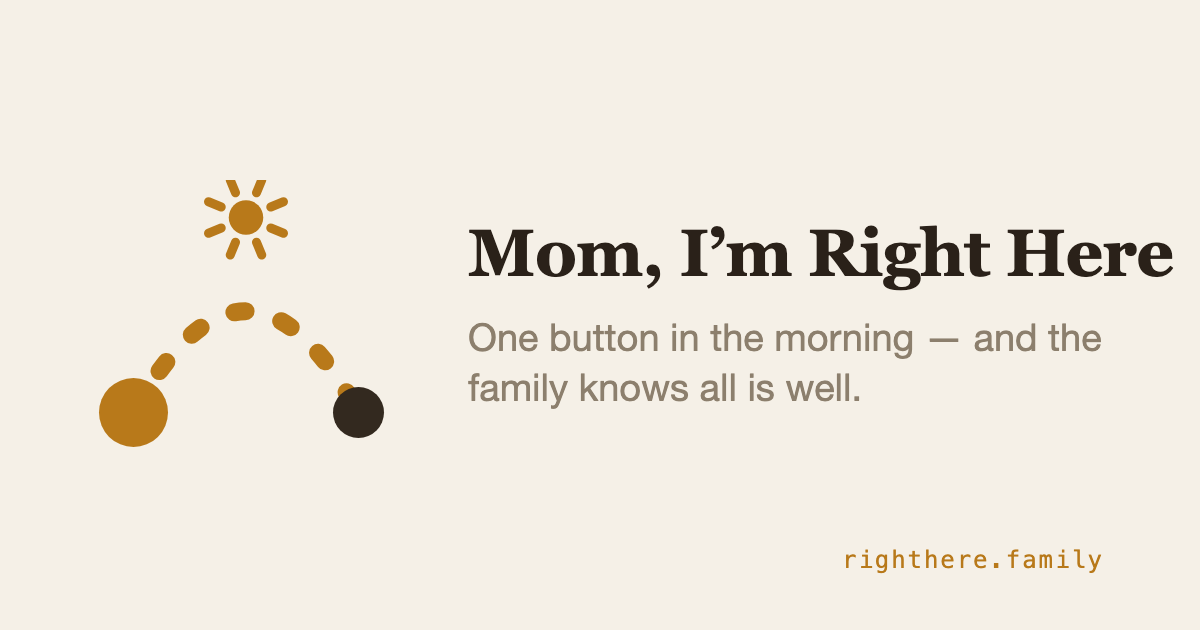
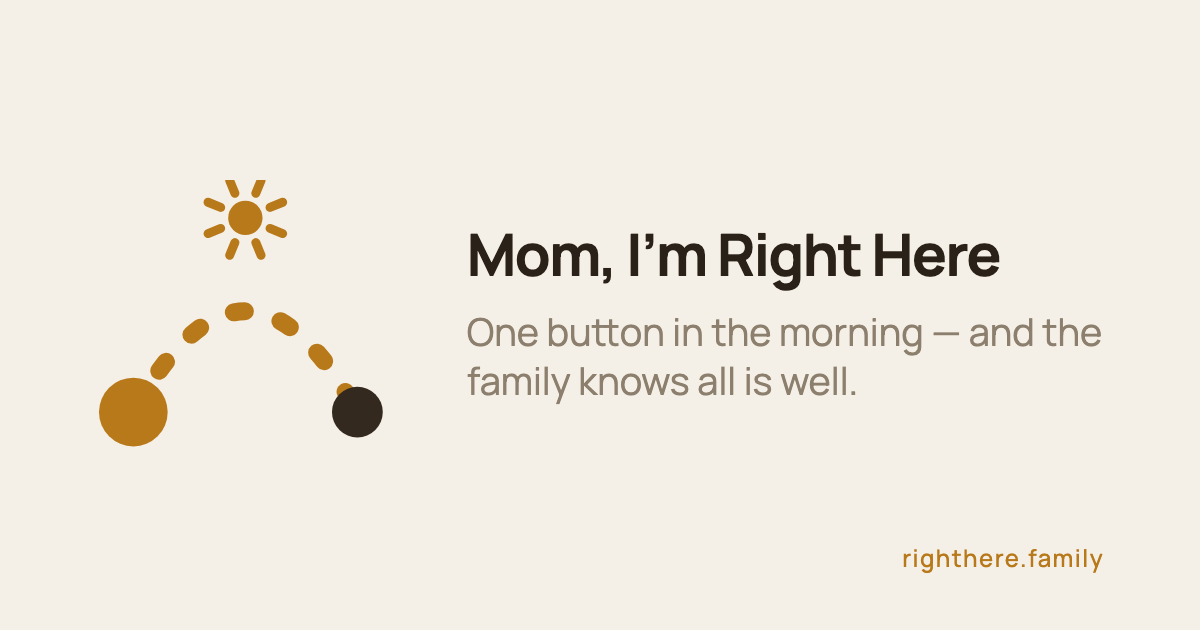
Use a single typeface across the landing and public pages

diff --git a/bot/src/landing-en.html b/bot/src/landing-en.html
@@ -163,9 +163,7 @@
   :root{
     --bg:#F5F0E7; --bg2:#F1EAE0; --card:#FFFDF9; --ink:#2A2119; --sub:#8C7F6D;
     --honey:#B8791A; --honey-deep:#9A6410; --graphite:#33291F; --choco:#2E241B; --cream:#FFF9EF; --cherry:#8E3A4C;
-    --serif:ui-serif, 'New York', Georgia, 'Times New Roman', serif;
     --sans:'Manrope', -apple-system, BlinkMacSystemFont, 'Segoe UI', Roboto, sans-serif;
-    --mono:ui-monospace, 'SF Mono', Menlo, monospace;
     --line:rgba(42,33,25,.1);
   }
 
@@ -181,7 +179,7 @@
   .site-nav{position:sticky; top:0; z-index:50; background:rgba(245,240,231,.92); backdrop-filter:blur(10px); border-bottom:1px solid var(--line);}
   .site-nav .wrap{display:flex; align-items:center; gap:12px; height:62px;}
   .brand{display:flex; align-items:center; gap:11px; text-decoration:none; color:var(--ink);}
-  .brand b{font-family:var(--serif); font-weight:700; font-size:21px; letter-spacing:.01em;}
+  .brand b{font-weight:700; font-size:19px; letter-spacing:-.01em;}
   .nav__links{display:flex; gap:22px; margin-left:auto; align-items:center;}
   .nav__links a{font-size:14px; color:var(--sub); text-decoration:none; font-weight:500;}
   .nav__links a:hover{color:var(--ink);}
@@ -190,11 +188,11 @@
   .nav__links a.btn{color:#fff;}
   .nav__links a.btn:hover{color:#fff;}
     .site-nav .btn{padding:9px 18px; font-size:13.5px;}
-  .brand__badge{font-family:var(--mono); font-size:11px; letter-spacing:.05em; color:var(--sub); border:1px solid var(--line); border-radius:99px; padding:4px 11px;}
+  .brand__badge{font-size:11px; font-weight:500; letter-spacing:.04em; color:var(--sub); border:1px solid var(--line); border-radius:99px; padding:4px 11px;}
 
   .hero{padding:56px 0 40px; text-align:center; overflow:hidden;}
-  h1{font-family:var(--serif); font-size:clamp(42px,5.6vw,72px); line-height:1.04; margin:6px auto 18px; font-weight:600; letter-spacing:0; max-width:15em; text-wrap:balance;}
-  h1 em, h2 em{font-style:italic; font-weight:600; color:var(--honey-deep);}
+  h1{font-size:clamp(38px,5vw,64px); line-height:1.06; margin:6px auto 18px; font-weight:700; letter-spacing:-.02em; max-width:14em; text-wrap:balance;}
+  h1 em, h2 em{font-style:normal; color:var(--honey-deep);}
   .hero__lede{color:var(--sub); font-size:17.5px; max-width:31em; margin:0 auto 28px; font-weight:500;}
   .hero__note{color:var(--sub); font-size:13.5px; margin-top:13px;}
 
@@ -307,23 +305,23 @@
   .btn--demo{background:#FFFFFF; color:var(--ink); border:2px solid var(--honey); box-shadow:0 6px 22px rgba(184,121,26,.16); animation:breathe 2.6s ease-in-out infinite;}
   .btn--demo:hover{background:var(--cream); color:var(--ink);}
   @keyframes breathe{0%,100%{box-shadow:0 6px 22px rgba(184,121,26,.16)} 50%{box-shadow:0 6px 30px rgba(184,121,26,.34)}}
-  .demo-hint{font-family:var(--mono); font-size:12px; color:var(--sub); margin:0;}
+  .demo-hint{font-size:12px; font-weight:500; color:var(--sub); margin:0;}
   .demo-after{font-size:14px; font-weight:600; color:var(--honey-deep); text-decoration:none; opacity:0; transform:translateY(4px); transition:opacity .5s ease, transform .5s ease; pointer-events:none;}
   .demo-after.shown{opacity:1; transform:none; pointer-events:auto;}
 
-  .scene__caption{font-family:var(--mono); font-size:12px; color:var(--sub); margin-top:16px;}
+  .scene__caption{font-size:12px; font-weight:500; color:var(--sub); margin-top:16px;}
 
   .section{padding:76px 0;}
   .section--alt{background:var(--bg2);}
-  .eyebrow{font-family:var(--mono); font-size:12px; letter-spacing:.08em; text-transform:uppercase; color:var(--honey-deep); margin-bottom:12px;}
-  h2{font-family:var(--serif); font-size:clamp(32px,3.8vw,46px); line-height:1.1; margin:0 0 14px; font-weight:600; letter-spacing:0; text-wrap:balance;}
+  .eyebrow{font-size:12px; font-weight:700; letter-spacing:.12em; text-transform:uppercase; color:var(--honey-deep); margin-bottom:12px;}
+  h2{font-size:clamp(28px,3.4vw,40px); line-height:1.12; margin:0 0 14px; font-weight:700; letter-spacing:-.015em; text-wrap:balance;}
   .section__lede{color:var(--sub); max-width:37em; margin:0 0 36px; font-size:16.5px; font-weight:500;}
 
   .timeline{border-left:2px solid var(--line); margin-left:8px; padding-left:30px; display:grid; gap:28px; max-width:620px;}
   .timeline .timeline__row{position:relative;}
   .timeline .timeline__row::before{content:""; position:absolute; left:-39px; top:4px; width:14px; height:14px; border-radius:50%; background:var(--honey); border:3px solid var(--bg);}
   .timeline__row--muted::before{background:var(--sub);}
-  .timeline time{font-family:var(--mono); font-size:13px; color:var(--honey-deep); font-weight:600;}
+  .timeline time{font-size:13px; color:var(--honey-deep); font-weight:700; font-variant-numeric:tabular-nums;}
   .timeline__row--muted time{color:var(--sub);}
   .timeline p{margin:4px 0 0; max-width:33em;}
   .timeline p small{display:block; color:var(--sub); margin-top:3px; font-size:13.5px;}
@@ -344,7 +342,7 @@
   .features__item svg{width:24px; height:24px; stroke:var(--honey-deep); fill:none; stroke-width:1.7; stroke-linecap:round; stroke-linejoin:round; margin-top:3px;}
   .features__item b{display:block; font-size:17px; margin-bottom:3px; font-weight:700;}
   .features__item p{margin:0; color:var(--sub); font-size:14.5px; max-width:44em;}
-  .features__item p code{white-space:nowrap; white-space:nowrap; font-family:var(--mono); font-size:12.5px; background:var(--bg2); border-radius:5px; padding:1px 6px; color:var(--ink);}
+  .features__item p code{white-space:nowrap; font-family:inherit; font-size:13px; font-weight:500; background:var(--bg2); border-radius:5px; padding:1px 6px; color:var(--ink);}
 
   .promise{background:var(--choco); color:#EFE6D9;}
   .promise h2{color:#FFF9EF;}
@@ -352,11 +350,11 @@
   .promise__list{display:grid; grid-template-columns:repeat(auto-fit,minmax(300px,1fr)); gap:6px 46px; max-width:880px; margin-top:28px;}
   .promise__list p{margin:0; padding:14px 0; border-bottom:1px solid rgba(239,230,217,.14); font-size:15.5px; color:#CBBFAE;}
   .promise__list p b{color:#FFF9EF; font-weight:700;}
-  .promise__gate{margin-top:34px; font-family:var(--serif); font-size:24px; color:#FFF9EF; max-width:24em; line-height:1.4; font-weight:600;}
+  .promise__gate{margin-top:34px; font-size:22px; color:#FFF9EF; max-width:24em; line-height:1.45; font-weight:500;}
 
   .geo{text-align:center;}
   .geo h2{max-width:20em; margin-left:auto; margin-right:auto;}
-  .geo .geo__cities{font-family:var(--mono); font-size:14px; color:var(--sub); margin:20px 0 8px; letter-spacing:.02em;}
+  .geo .geo__cities{font-size:14px; font-weight:500; color:var(--sub); margin:20px 0 8px; letter-spacing:.02em;}
   .geo .geo__cities b{color:var(--honey-deep); font-weight:600;}
 
   .pricing{display:grid; grid-template-columns:repeat(auto-fit,minmax(220px,1fr)); gap:22px; align-items:stretch; max-width:960px;}
@@ -364,14 +362,14 @@
   .pricing__plan--mom{background:var(--honey); color:#FFF9EF; border-radius:22px; padding:26px 28px 30px; box-shadow:0 18px 40px rgba(184,121,26,.28);}
   .pricing__plan--mom b, .pricing__plan--mom .pricing__label{color:#FFF9EF;}
   .pricing__plan.pricing__plan--mom span{color:rgba(255,249,239,.82);}
-  .pricing__plan b{font-family:var(--serif); font-size:30px; line-height:1.15; display:block; font-weight:700; margin-bottom:10px;}
+  .pricing__plan b{font-size:28px; line-height:1.15; letter-spacing:-.015em; display:block; font-weight:700; margin-bottom:10px;}
   .pricing__plan span{color:var(--sub); font-size:14px;}
   .beta-modal{border:0; padding:0; background:transparent; width:min(92vw, 520px); color:var(--ink);}
   .beta-modal::backdrop{background:rgba(42,33,25,.5); backdrop-filter:blur(3px);}
   .beta-modal__card{position:relative; background:var(--card); border-radius:26px; padding:32px 30px 28px; box-shadow:0 30px 80px rgba(64,52,32,.28);}
   .beta-modal__close{position:absolute; top:16px; right:16px; width:34px; height:34px; border:0; border-radius:50%; background:var(--bg2); color:var(--sub); font-size:19px; line-height:1; cursor:pointer;}
   .beta-modal__close:hover{color:var(--ink);}
-  .beta-modal__title{font-family:var(--serif); font-size:30px; font-weight:600; margin:0 0 8px; padding-right:44px;}
+  .beta-modal__title{font-size:26px; font-weight:700; letter-spacing:-.015em; margin:0 0 8px; padding-right:44px;}
   .beta-modal__lead{margin:0 0 22px; color:var(--sub); font-size:15px; line-height:1.5;}
   .beta-modal__tg{display:block; text-align:center; width:100%; box-sizing:border-box;}
   .beta-modal__or{display:flex; align-items:center; gap:12px; margin:20px 0 16px; color:var(--sub); font-size:13px;}
@@ -400,20 +398,20 @@
   .tg-link:hover{color:var(--ink);}
   .tg-link__icon{flex:0 0 auto; color:var(--honey);}
   .pricing__note{margin-top:20px; font-size:16px; color:var(--honey-deep); font-weight:700;}
-  .pricing__label{display:block; font-family:var(--mono); font-size:11px; letter-spacing:.08em; text-transform:uppercase; color:var(--honey-deep); margin-bottom:7px;}
+  .pricing__label{display:block; font-size:11px; font-weight:700; letter-spacing:.12em; text-transform:uppercase; color:var(--honey-deep); margin-bottom:7px;}
 
   .faq{max-width:720px;}
 
   .faq details{border-bottom:1px solid var(--line);}
   .faq summary{cursor:pointer; padding:18px 0; font-weight:700; font-size:16.5px; list-style:none; display:flex; justify-content:space-between; gap:20px;}
-  .faq summary::after{content:"+"; color:var(--honey-deep); font-size:21px; font-weight:400; font-family:var(--serif);}
+  .faq summary::after{content:"+"; color:var(--honey-deep); font-size:21px; font-weight:400;}
   .faq details[open] summary::after{content:"–";}
   .faq summary::-webkit-details-marker{display:none;}
   .faq .a{padding:0 0 18px; color:var(--sub); max-width:42em; font-size:15px;}
 
   .closing{text-align:center; padding:100px 0 80px;}
-  .closing .img{font-family:var(--serif); font-size:clamp(26px,3.4vw,36px); line-height:1.3; max-width:22em; margin:0 auto 16px; text-wrap:balance; font-weight:600;}
-  .closing .img em{font-style:italic; color:var(--sub); font-weight:600;}
+  .closing .img{font-size:clamp(24px,3vw,32px); line-height:1.3; letter-spacing:-.015em; max-width:22em; margin:0 auto 16px; text-wrap:balance; font-weight:600;}
+  .closing .img em{font-style:normal; color:var(--sub);}
   .closing .closing__note{color:var(--sub); margin:0 auto 36px; max-width:30em; font-weight:500;}
 
   .cat-strip{position:relative; height:64px; border-top:1px solid var(--line); max-width:1080px; margin:0 auto; overflow:hidden;}

diff --git a/bot/src/landing.html b/bot/src/landing.html
@@ -163,9 +163,7 @@
   :root{
     --bg:#F5F0E7; --bg2:#F1EAE0; --card:#FFFDF9; --ink:#2A2119; --sub:#8C7F6D;
     --honey:#B8791A; --honey-deep:#9A6410; --graphite:#33291F; --choco:#2E241B; --cream:#FFF9EF; --cherry:#8E3A4C;
-    --serif:ui-serif, 'New York', Georgia, 'Times New Roman', serif;
     --sans:'Manrope', -apple-system, BlinkMacSystemFont, 'Segoe UI', Roboto, sans-serif;
-    --mono:ui-monospace, 'SF Mono', Menlo, monospace;
     --line:rgba(42,33,25,.1);
   }
 
@@ -181,7 +179,7 @@
   .site-nav{position:sticky; top:0; z-index:50; background:rgba(245,240,231,.92); backdrop-filter:blur(10px); border-bottom:1px solid var(--line);}
   .site-nav .wrap{display:flex; align-items:center; gap:12px; height:62px;}
   .brand{display:flex; align-items:center; gap:11px; text-decoration:none; color:var(--ink);}
-  .brand b{font-family:var(--serif); font-weight:700; font-size:21px; letter-spacing:.01em;}
+  .brand b{font-weight:700; font-size:19px; letter-spacing:-.01em;}
   .nav__links{display:flex; gap:22px; margin-left:auto; align-items:center;}
   .nav__links a{font-size:14px; color:var(--sub); text-decoration:none; font-weight:500;}
   .nav__links a:hover{color:var(--ink);}
@@ -190,11 +188,11 @@
   .nav__links a.btn{color:#fff;}
   .nav__links a.btn:hover{color:#fff;}
     .site-nav .btn{padding:9px 18px; font-size:13.5px;}
-  .brand__badge{font-family:var(--mono); font-size:11px; letter-spacing:.05em; color:var(--sub); border:1px solid var(--line); border-radius:99px; padding:4px 11px;}
+  .brand__badge{font-size:11px; font-weight:500; letter-spacing:.04em; color:var(--sub); border:1px solid var(--line); border-radius:99px; padding:4px 11px;}
 
   .hero{padding:56px 0 40px; text-align:center; overflow:hidden;}
-  h1{font-family:var(--serif); font-size:clamp(42px,5.6vw,72px); line-height:1.04; margin:6px auto 18px; font-weight:600; letter-spacing:0; max-width:15em; text-wrap:balance;}
-  h1 em, h2 em{font-style:italic; font-weight:600; color:var(--honey-deep);}
+  h1{font-size:clamp(38px,5vw,64px); line-height:1.06; margin:6px auto 18px; font-weight:700; letter-spacing:-.02em; max-width:14em; text-wrap:balance;}
+  h1 em, h2 em{font-style:normal; color:var(--honey-deep);}
   .hero__lede{color:var(--sub); font-size:17.5px; max-width:31em; margin:0 auto 28px; font-weight:500;}
   .hero__note{color:var(--sub); font-size:13.5px; margin-top:13px;}
 
@@ -307,23 +305,23 @@
   .btn--demo{background:#FFFFFF; color:var(--ink); border:2px solid var(--honey); box-shadow:0 6px 22px rgba(184,121,26,.16); animation:breathe 2.6s ease-in-out infinite;}
   .btn--demo:hover{background:var(--cream); color:var(--ink);}
   @keyframes breathe{0%,100%{box-shadow:0 6px 22px rgba(184,121,26,.16)} 50%{box-shadow:0 6px 30px rgba(184,121,26,.34)}}
-  .demo-hint{font-family:var(--mono); font-size:12px; color:var(--sub); margin:0;}
+  .demo-hint{font-size:12px; font-weight:500; color:var(--sub); margin:0;}
   .demo-after{font-size:14px; font-weight:600; color:var(--honey-deep); text-decoration:none; opacity:0; transform:translateY(4px); transition:opacity .5s ease, transform .5s ease; pointer-events:none;}
   .demo-after.shown{opacity:1; transform:none; pointer-events:auto;}
 
-  .scene__caption{font-family:var(--mono); font-size:12px; color:var(--sub); margin-top:16px;}
+  .scene__caption{font-size:12px; font-weight:500; color:var(--sub); margin-top:16px;}
 
   .section{padding:76px 0;}
   .section--alt{background:var(--bg2);}
-  .eyebrow{font-family:var(--mono); font-size:12px; letter-spacing:.08em; text-transform:uppercase; color:var(--honey-deep); margin-bottom:12px;}
-  h2{font-family:var(--serif); font-size:clamp(32px,3.8vw,46px); line-height:1.1; margin:0 0 14px; font-weight:600; letter-spacing:0; text-wrap:balance;}
+  .eyebrow{font-size:12px; font-weight:700; letter-spacing:.12em; text-transform:uppercase; color:var(--honey-deep); margin-bottom:12px;}
+  h2{font-size:clamp(28px,3.4vw,40px); line-height:1.12; margin:0 0 14px; font-weight:700; letter-spacing:-.015em; text-wrap:balance;}
   .section__lede{color:var(--sub); max-width:37em; margin:0 0 36px; font-size:16.5px; font-weight:500;}
 
   .timeline{border-left:2px solid var(--line); margin-left:8px; padding-left:30px; display:grid; gap:28px; max-width:620px;}
   .timeline .timeline__row{position:relative;}
   .timeline .timeline__row::before{content:""; position:absolute; left:-39px; top:4px; width:14px; height:14px; border-radius:50%; background:var(--honey); border:3px solid var(--bg);}
   .timeline__row--muted::before{background:var(--sub);}
-  .timeline time{font-family:var(--mono); font-size:13px; color:var(--honey-deep); font-weight:600;}
+  .timeline time{font-size:13px; color:var(--honey-deep); font-weight:700; font-variant-numeric:tabular-nums;}
   .timeline__row--muted time{color:var(--sub);}
   .timeline p{margin:4px 0 0; max-width:33em;}
   .timeline p small{display:block; color:var(--sub); margin-top:3px; font-size:13.5px;}
@@ -344,7 +342,7 @@
   .features__item svg{width:24px; height:24px; stroke:var(--honey-deep); fill:none; stroke-width:1.7; stroke-linecap:round; stroke-linejoin:round; margin-top:3px;}
   .features__item b{display:block; font-size:17px; margin-bottom:3px; font-weight:700;}
   .features__item p{margin:0; color:var(--sub); font-size:14.5px; max-width:44em;}
-  .features__item p code{white-space:nowrap; white-space:nowrap; font-family:var(--mono); font-size:12.5px; background:var(--bg2); border-radius:5px; padding:1px 6px; color:var(--ink);}
+  .features__item p code{white-space:nowrap; font-family:inherit; font-size:13px; font-weight:500; background:var(--bg2); border-radius:5px; padding:1px 6px; color:var(--ink);}
 
   .promise{background:var(--choco); color:#EFE6D9;}
   .promise h2{color:#FFF9EF;}
@@ -352,11 +350,11 @@
   .promise__list{display:grid; grid-template-columns:repeat(auto-fit,minmax(300px,1fr)); gap:6px 46px; max-width:880px; margin-top:28px;}
   .promise__list p{margin:0; padding:14px 0; border-bottom:1px solid rgba(239,230,217,.14); font-size:15.5px; color:#CBBFAE;}
   .promise__list p b{color:#FFF9EF; font-weight:700;}
-  .promise__gate{margin-top:34px; font-family:var(--serif); font-size:24px; color:#FFF9EF; max-width:24em; line-height:1.4; font-weight:600;}
+  .promise__gate{margin-top:34px; font-size:22px; color:#FFF9EF; max-width:24em; line-height:1.45; font-weight:500;}
 
   .geo{text-align:center;}
   .geo h2{max-width:20em; margin-left:auto; margin-right:auto;}
-  .geo .geo__cities{font-family:var(--mono); font-size:14px; color:var(--sub); margin:20px 0 8px; letter-spacing:.02em;}
+  .geo .geo__cities{font-size:14px; font-weight:500; color:var(--sub); margin:20px 0 8px; letter-spacing:.02em;}
   .geo .geo__cities b{color:var(--honey-deep); font-weight:600;}
 
   .pricing{display:grid; grid-template-columns:repeat(auto-fit,minmax(220px,1fr)); gap:22px; align-items:stretch; max-width:960px;}
@@ -364,14 +362,14 @@
   .pricing__plan--mom{background:var(--honey); color:#FFF9EF; border-radius:22px; padding:26px 28px 30px; box-shadow:0 18px 40px rgba(184,121,26,.28);}
   .pricing__plan--mom b, .pricing__plan--mom .pricing__label{color:#FFF9EF;}
   .pricing__plan.pricing__plan--mom span{color:rgba(255,249,239,.82);}
-  .pricing__plan b{font-family:var(--serif); font-size:30px; line-height:1.15; display:block; font-weight:700; margin-bottom:10px;}
+  .pricing__plan b{font-size:28px; line-height:1.15; letter-spacing:-.015em; display:block; font-weight:700; margin-bottom:10px;}
   .pricing__plan span{color:var(--sub); font-size:14px;}
   .beta-modal{border:0; padding:0; background:transparent; width:min(92vw, 520px); color:var(--ink);}
   .beta-modal::backdrop{background:rgba(42,33,25,.5); backdrop-filter:blur(3px);}
   .beta-modal__card{position:relative; background:var(--card); border-radius:26px; padding:32px 30px 28px; box-shadow:0 30px 80px rgba(64,52,32,.28);}
   .beta-modal__close{position:absolute; top:16px; right:16px; width:34px; height:34px; border:0; border-radius:50%; background:var(--bg2); color:var(--sub); font-size:19px; line-height:1; cursor:pointer;}
   .beta-modal__close:hover{color:var(--ink);}
-  .beta-modal__title{font-family:var(--serif); font-size:30px; font-weight:600; margin:0 0 8px; padding-right:44px;}
+  .beta-modal__title{font-size:26px; font-weight:700; letter-spacing:-.015em; margin:0 0 8px; padding-right:44px;}
   .beta-modal__lead{margin:0 0 22px; color:var(--sub); font-size:15px; line-height:1.5;}
   .beta-modal__tg{display:block; text-align:center; width:100%; box-sizing:border-box;}
   .beta-modal__or{display:flex; align-items:center; gap:12px; margin:20px 0 16px; color:var(--sub); font-size:13px;}
@@ -400,20 +398,20 @@
   .tg-link:hover{color:var(--ink);}
   .tg-link__icon{flex:0 0 auto; color:var(--honey);}
   .pricing__note{margin-top:20px; font-size:16px; color:var(--honey-deep); font-weight:700;}
-  .pricing__label{display:block; font-family:var(--mono); font-size:11px; letter-spacing:.08em; text-transform:uppercase; color:var(--honey-deep); margin-bottom:7px;}
+  .pricing__label{display:block; font-size:11px; font-weight:700; letter-spacing:.12em; text-transform:uppercase; color:var(--honey-deep); margin-bottom:7px;}
 
   .faq{max-width:720px;}
 
   .faq details{border-bottom:1px solid var(--line);}
   .faq summary{cursor:pointer; padding:18px 0; font-weight:700; font-size:16.5px; list-style:none; display:flex; justify-content:space-between; gap:20px;}
-  .faq summary::after{content:"+"; color:var(--honey-deep); font-size:21px; font-weight:400; font-family:var(--serif);}
+  .faq summary::after{content:"+"; color:var(--honey-deep); font-size:21px; font-weight:400;}
   .faq details[open] summary::after{content:"–";}
   .faq summary::-webkit-details-marker{display:none;}
   .faq .a{padding:0 0 18px; color:var(--sub); max-width:42em; font-size:15px;}
 
   .closing{text-align:center; padding:100px 0 80px;}
-  .closing .img{font-family:var(--serif); font-size:clamp(26px,3.4vw,36px); line-height:1.3; max-width:22em; margin:0 auto 16px; text-wrap:balance; font-weight:600;}
-  .closing .img em{font-style:italic; color:var(--sub); font-weight:600;}
+  .closing .img{font-size:clamp(24px,3vw,32px); line-height:1.3; letter-spacing:-.015em; max-width:22em; margin:0 auto 16px; text-wrap:balance; font-weight:600;}
+  .closing .img em{font-style:normal; color:var(--sub);}
   .closing .closing__note{color:var(--sub); margin:0 auto 36px; max-width:30em; font-weight:500;}
 
   .cat-strip{position:relative; height:64px; border-top:1px solid var(--line); max-width:1080px; margin:0 auto; overflow:hidden;}

diff --git a/bot/src/privacy-en.html b/bot/src/privacy-en.html
@@ -12,9 +12,9 @@
   body { margin: 0; background: #F5F0E7; color: #33291F;
          font: 16px/1.65 -apple-system, "SF Pro Text", system-ui, sans-serif; }
   .wrap { max-width: 640px; margin: 0 auto; padding: 48px 22px 72px; position: relative; }
-  h1 { font-family: Georgia, "Times New Roman", serif; font-weight: 600;
+  h1 { font-weight: 700; letter-spacing: -.01em;
        font-size: 32px; margin: 18px 0 6px; }
-  h2 { font-family: Georgia, serif; font-weight: 600; font-size: 21px; margin: 34px 0 10px; }
+  h2 { font-weight: 700; font-size: 21px; margin: 34px 0 10px; }
   p, li { color: #4A4034; }
   .sub { color: #7A6F62; font-size: 14px; margin-top: 0; }
   ul { padding-left: 22px; }

diff --git a/bot/src/privacy.html b/bot/src/privacy.html
@@ -12,9 +12,9 @@
   body { margin: 0; background: #F5F0E7; color: #33291F;
          font: 16px/1.65 -apple-system, "SF Pro Text", system-ui, sans-serif; }
   .wrap { max-width: 640px; margin: 0 auto; padding: 48px 22px 72px; }
-  h1 { font-family: Georgia, "Times New Roman", serif; font-weight: 600;
+  h1 { font-weight: 700; letter-spacing: -.01em;
        font-size: 32px; margin: 18px 0 6px; }
-  h2 { font-family: Georgia, serif; font-weight: 600; font-size: 21px; margin: 34px 0 10px; }
+  h2 { font-weight: 700; font-size: 21px; margin: 34px 0 10px; }
   p, li { color: #4A4034; }
   .sub { color: #7A6F62; font-size: 14px; margin-top: 0; }
   ul { padding-left: 22px; }

diff --git a/bot/src/index.ts b/bot/src/index.ts
@@ -201,7 +201,7 @@ function joinPage(token: string): string {
          display: flex; min-height: 100vh; align-items: center; justify-content: center; }
   .card { background: #fff; border-radius: 24px; padding: 36px 28px; max-width: 340px;
           margin: 20px; box-shadow: 0 14px 40px rgba(51,41,31,.10); text-align: center; }
-  h1 { font-family: Georgia, "Times New Roman", serif; font-weight: 600;
+  h1 { font-weight: 700; letter-spacing: -.01em;
        font-size: 28px; margin: 18px 0 10px; }
   p { color: #7A6F62; font-size: 15px; margin: 0 0 22px; }
   .btn { display: block; background: #9A6410; color: #fff; text-decoration: none;
